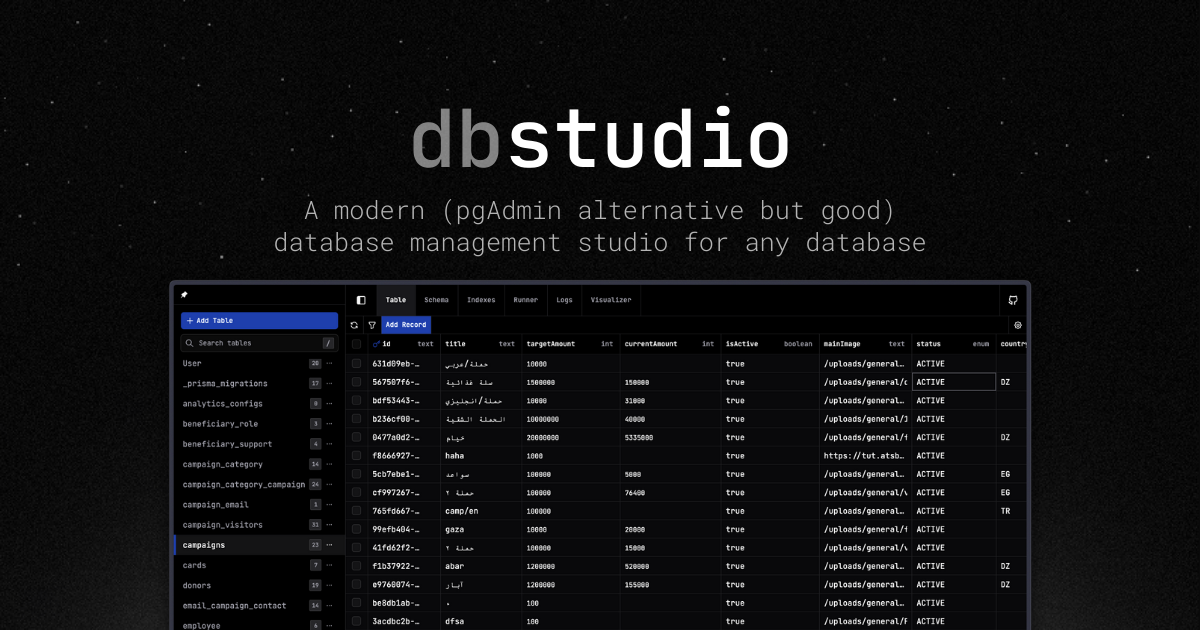
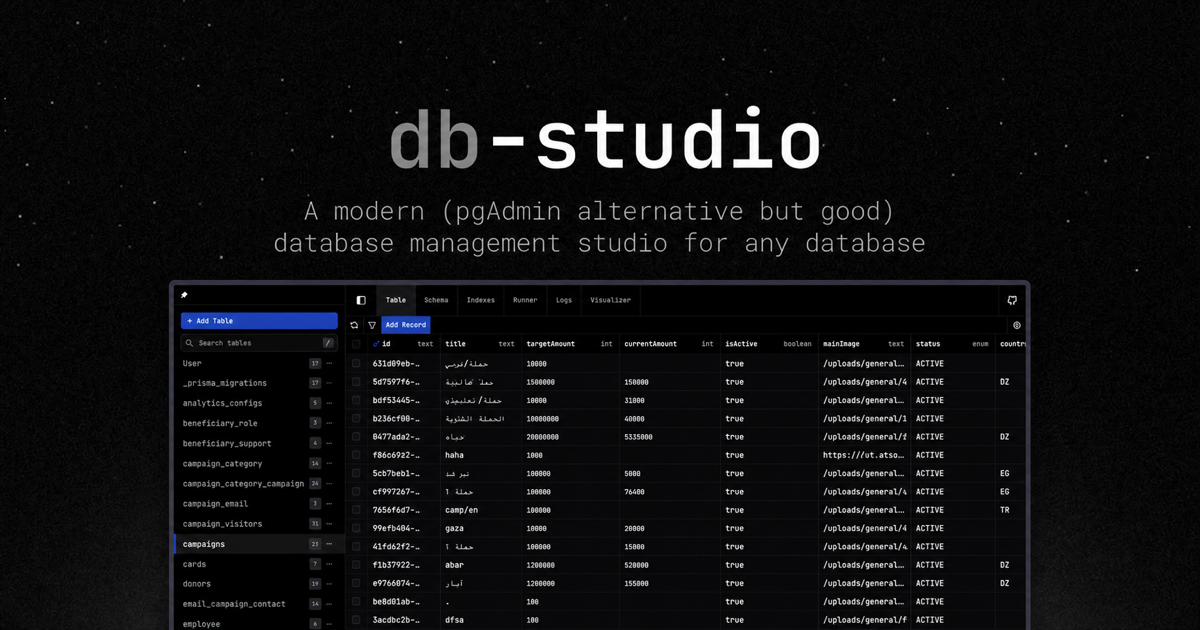
chore(branding): standardize db-studio naming
- Use db-studio consistently across product copy, documentation, metadata, and release labels.\n- Correct Portless development hostnames for the web, API, proxy, and docs services.\n- Refresh the social preview image and align public license references with Apache 2.0.

diff --git a/www/src/markdown/pages.ts b/www/src/markdown/pages.ts
@@ -30,7 +30,7 @@ const changelogMarkdown = (): string => {
 		return lines.join("\n\n");
 	});
 
-	return `# Changelog\n\nRelease history for DB Studio.\n\n${sections.join("\n\n")}\n`;
+	return `# Changelog\n\nRelease history for db-studio.\n\n${sections.join("\n\n")}\n`;
 };
 
 const roadmapMarkdown = (): string => {
@@ -46,10 +46,10 @@ const roadmapMarkdown = (): string => {
 		return `## ${section.title} (${section.status})\n\n${tasks}`;
 	});
 
-	return `# Roadmap\n\nWhat's done, in progress, and planned for DB Studio.\n\n${sections.join("\n\n")}\n`;
+	return `# Roadmap\n\nWhat's done, in progress, and planned for db-studio.\n\n${sections.join("\n\n")}\n`;
 };
 
-const landingMarkdown = (): string => `# DB Studio
+const landingMarkdown = (): string => `# db-studio
 
 A modern (pgAdmin alternative but good) database management studio for any database.
 

diff --git a/packages/shared/src/constants/defaults.ts b/packages/shared/src/constants/defaults.ts
@@ -15,7 +15,7 @@ export const DEFAULTS = {
 	PORT: 3333,
 	ENV: ".env",
 	VAR_NAME: "DATABASE_URL",
-	BASE_URL: "https://api.dbstudio.localhost",
+	BASE_URL: "https://api.db-studio.localhost",
 	/**
 	 * URL namespace for all HTTP API routes. The API and the SPA are served
 	 * from the same origin in self-hosted mode, so the API is mounted under
@@ -27,6 +27,6 @@ export const DEFAULTS = {
 	PROXY_URL:
 		env?.DB_STUDIO_PROXY_URL ??
 		(nodeEnv === "development"
-			? "https://proxy.dbstudio.localhost"
+			? "https://proxy.db-studio.localhost"
 			: "https://db-studio-proxy.husamql3.workers.dev"),
 };

diff --git a/www/src/components/section.tsx b/www/src/components/section.tsx
@@ -42,7 +42,7 @@ export const Section = ({ children }: { children: React.ReactNode }) => {
 					<div className="flex flex-col gap-1 text-center md:text-left">
 						<h1 className="font-semibold">Getting Started</h1>
 						<p className="text-xs text-muted-foreground">
-							Run DB Studio directly in your terminal with a single command, no installation
+							Run db-studio directly in your terminal with a single command, no installation
 							required.
 						</p>
 					</div>

diff --git a/packages/web/vite.config.ts b/packages/web/vite.config.ts
@@ -125,7 +125,7 @@ export default defineConfig(({ mode }) => {
     host: true,
     proxy: {
       "/api": {
-        target: process.env.VITE_API_PROXY_TARGET ?? 'https://api.dbstudio.localhost',
+        target: process.env.VITE_API_PROXY_TARGET ?? 'https://api.db-studio.localhost',
         changeOrigin: true,
         secure: false,
         // No rewrite: the server owns the /api namespace, so forward the

diff --git a/www/src/lib/content/changelog.ts b/www/src/lib/content/changelog.ts
@@ -39,7 +39,7 @@ export const changelog: ChangelogItem[] = [
 		title: "Fix npm package URLs in README",
 		bugsFixed: [
 			{
-				text: "Fixed npm package URLs in the published README pointing to wrong package name (dbstudio → db-studio) and wrong license badge repo",
+				text: "Fixed the npm package URLs and license badge repository in the published README",
 			},
 		],
 	},

diff --git a/www/src/lib/content/roadmap.ts b/www/src/lib/content/roadmap.ts
@@ -38,7 +38,7 @@ export const roadmapItems: RoadmapItem[] = [
 		status: "completed",
 		items: [
 			{
-				title: "Develop CLI tool for running the db studio app",
+				title: "Develop CLI tool for running the db-studio app",
 				status: "completed",
 			},
 			{ title: "Publish the tool on npm and release it", status: "completed" },

diff --git a/packages/web/src/components/components/command-palette.tsx b/packages/web/src/components/components/command-palette.tsx
@@ -686,7 +686,7 @@ export function CommandPalette() {
 								onSelect={() =>
 									handleAction(() => {
 										toast.info("Settings - Coming Soon!", {
-											description: "Customize your DB Studio experience",
+											description: "Customize your db-studio experience",
 										});
 									})
 								}

diff --git a/www/src/routes/(main)/_pathlessLayout/index.tsx b/www/src/routes/(main)/_pathlessLayout/index.tsx
@@ -187,7 +187,7 @@ function App() {
 				<div className="relative w-full flex flex-col border-y">
 					<img
 						src="/studio.png"
-						alt="DB Studio"
+						alt="db-studio"
 						width={1000}
 						height={1000}
 						className="w-full h-full object-contain"

diff --git a/www/src/components/header.tsx b/www/src/components/header.tsx
@@ -60,7 +60,7 @@ export const Header = ({ stars }: { stars: string | null }) => {
 					<Link to="/">
 						<img
 							src="/logo.png"
-							alt="DB Studio"
+							alt="db-studio"
 							width={32}
 							className="md:w-8 w-6"
 						/>

diff --git a/packages/shared/src/constants/meta.ts b/packages/shared/src/constants/meta.ts
@@ -19,7 +19,7 @@ export const META = {
 		"ai sql",
 		"er diagram",
 	],
-	SITE_TITLE: "dbstudio",
+	SITE_TITLE: "db-studio",
 	SITE_NAME: "dbstudio.sh",
 	SITE_URL: "https://dbstudio.sh",
 	SITE_X_LINK: "https://x.com/dbstudio_sh",

diff --git a/www/src/components/layout.shared.tsx b/www/src/components/layout.shared.tsx
@@ -11,7 +11,7 @@ export function baseOptions(): BaseLayoutProps {
 				<Link to="/">
 					<img
 						src="/logo.png"
-						alt="DB Studio"
+						alt="db-studio"
 						width={32}
 					/>
 				</Link>

diff --git a/README.md b/README.md
@@ -3,7 +3,7 @@
 <picture>
   <source media="(prefers-color-scheme: dark)" srcset="assets/logo-light.png">
   <source media="(prefers-color-scheme: light)" srcset="assets/logo-dark.png">
-  <img src="assets/logo-light.png" alt="DB Studio logo" width="100">
+  <img src="assets/logo-light.png" alt="db-studio logo" width="100">
 </picture>
 
 <br>
@@ -34,7 +34,7 @@ A modern, universal (pgAdmin alternative) database management studio for any dat
 
 <br>
 
-<img src="assets/screenshot.png" alt="DB Studio screenshot" width="1000" />
+<img src="assets/screenshot.png" alt="db-studio screenshot" width="1000" />
 </div>
 
 ## Tech Stack
@@ -51,7 +51,7 @@ No installation required. Just run:
 npx db-studio
 ```
 
-This runs the latest published version and uses the **current directory** as the project context. DB Studio looks for a `.env` file in the current working directory and, if not found, searches parent directories until one is found. It reads `DATABASE_URL` from that file (or use `--var-name <name>` for a different variable). If `DATABASE_URL` is not in the .env file, it is also read from **process.env** (e.g. when set in the shell or in a package.json script). To point to a specific env file, use `--env <path>` (e.g. `npx db-studio --env .env.local`).
+This runs the latest published version and uses the **current directory** as the project context. db-studio looks for a `.env` file in the current working directory and, if not found, searches parent directories until one is found. It reads `DATABASE_URL` from that file (or use `--var-name <name>` for a different variable). If `DATABASE_URL` is not in the .env file, it is also read from **process.env** (e.g. when set in the shell or in a package.json script). To point to a specific env file, use `--env <path>` (e.g. `npx db-studio --env .env.local`).
 
 ### Recommended base script (add to package.json)
 
@@ -110,7 +110,7 @@ For full documentation and more examples: [dbstudio.sh](https://dbstudio.sh)
 
 ## Development Setup
 
-**Using the CLI (installed or npx):** Run `npx db-studio` from a directory that contains your `.env` (or from a subfolder; DB Studio will search upward for `.env`). Alternatively use `--env <path>` to specify the env file.
+**Using the CLI (installed or npx):** Run `npx db-studio` from a directory that contains your `.env` (or from a subfolder; db-studio will search upward for `.env`). Alternatively use `--env <path>` to specify the env file.
 
 **Developing from source:**
 
@@ -138,10 +138,10 @@ Development services run through [Portless](https://portless.sh/) with stable lo
 
 | Service | URL |
 |---------|-----|
-| Web app | `https://web.dbstudio.localhost` |
-| API server | `https://api.dbstudio.localhost` |
-| AI proxy | `https://proxy.dbstudio.localhost` |
-| Docs/marketing site | `https://www.dbstudio.localhost` |
+| Web app | `https://web.db-studio.localhost` |
+| API server | `https://api.db-studio.localhost` |
+| AI proxy | `https://proxy.db-studio.localhost` |
+| Docs/marketing site | `https://www.db-studio.localhost` |
 
 On first run, Portless may ask to trust its local certificate authority. You can also run:
 
@@ -173,4 +173,4 @@ Check out [CONTRIBUTING.md](/CONTRIBUTING.md) and the open issues.
 
 ## License
 
-[LICENSE](/LICENSE)
+Licensed under the [Apache License 2.0](/LICENSE).
